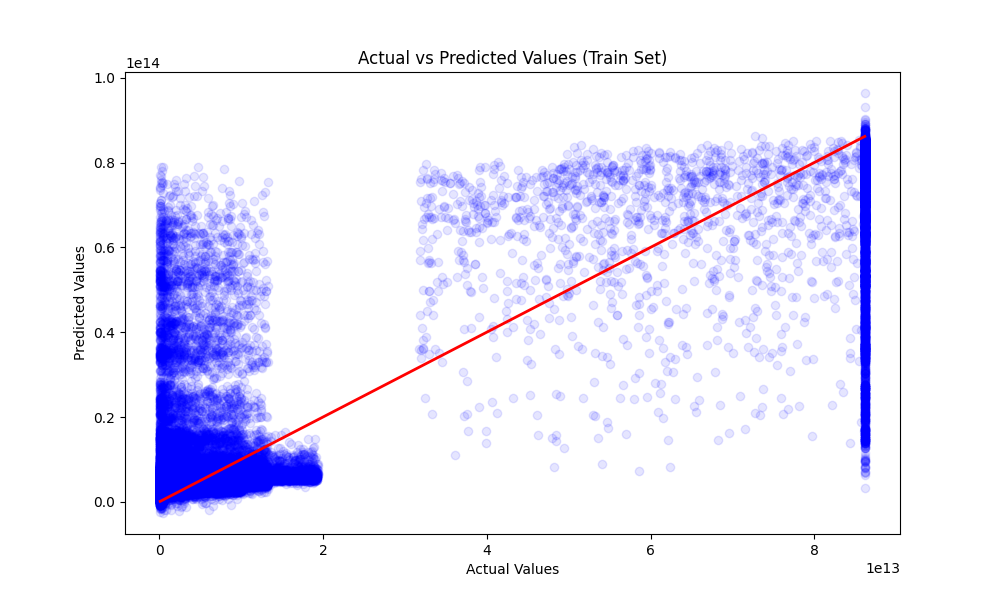
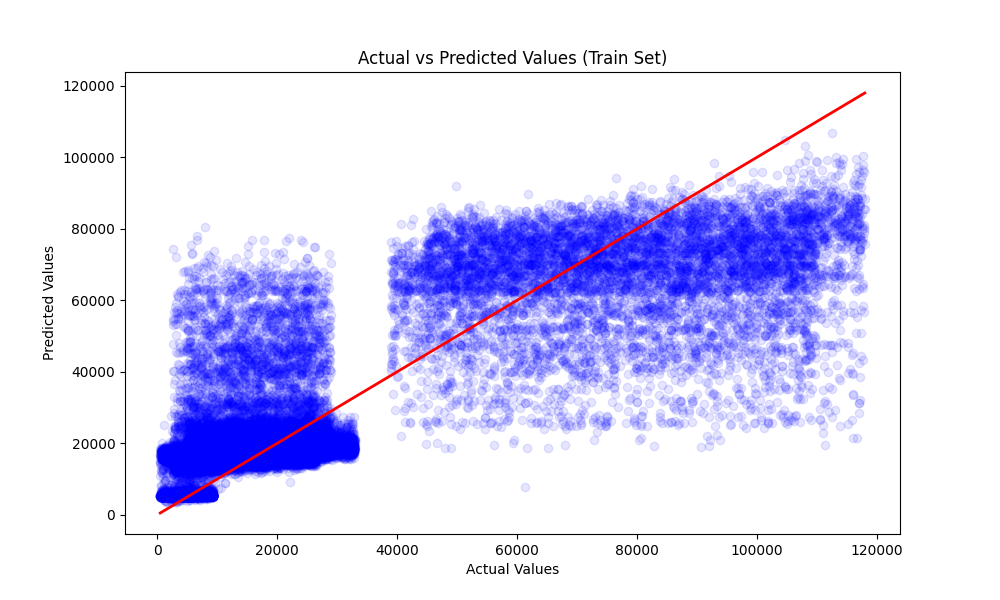
good xgboost results

diff --git a/src/models/model_evaluation.py b/src/models/model_evaluation.py
@@ -53,12 +53,10 @@ def plot(Y:np.ndarray,data_prediction:pd.Series,set:str,color:str)->str:
         plt.savefig(plot_path)
         plt.show()
         plt.close()
-
         return plot_path
     except Exception as e :
         raise Exception(f"Error occured during plotting predicated vs actual values : {e}")
 
-        
 
 # Model Evaluation function
 def evaluation_model(model,X_test: pd.DataFrame,Y_test :pd.Series,X_train: pd.DataFrame,Y_train :pd.Series )->dict:
@@ -68,21 +66,17 @@ def evaluation_model(model,X_test: pd.DataFrame,Y_test :pd.Series,X_train: pd.Da
         test_size = params["data_collection"]["test_size"]
         kwargs= params["model_building"]["kwargs"]
         model_name = params["model_building"]["model_name"]
-        # Predicting test & train sets
-        
 
+        # Predicting test & train sets
         test_data_prediction = model.predict(X_test)
         train_data_prediction = model.predict(X_train)
-
 
         # Defining r square measure
         r2_test = r2_score(Y_test, test_data_prediction)
         r2_train = r2_score(Y_train,train_data_prediction)
         mae = mean_absolute_error(test_data_prediction,Y_test)
        
-        
         # Plotting test & train datasets vs actual values diagrams
-
         test_plot = plot(Y_test,test_data_prediction,"Test","green")
         train_plot = plot(Y_train,train_data_prediction,"Train","blue")
 
@@ -105,7 +99,6 @@ def evaluation_model(model,X_test: pd.DataFrame,Y_test :pd.Series,X_train: pd.Da
                  "mae":mae
             }
         print(f"Model Evaluation Results: {metrics_dict}")
-
         return metrics_dict
     except Exception as e:
         raise Exception(f"Error occured during model evaluation : {e}")
@@ -138,10 +131,8 @@ def main():
 
         # Defining X-train & Y-train
         X_train , Y_train = prepare_data(train_data)
-        features_to_scale  = ["Age","Severity","Marital Status"]
-        scaler = StandardScaler()
-        X_train[features_to_scale] = scaler.fit_transform(X_train[features_to_scale])  # Fit and transform training data
-        X_test[features_to_scale] = scaler.transform(X_test[features_to_scale])       # Only transform test data
+
+
         # Loading Model
         model = load_model(model_path)
        
@@ -154,8 +145,6 @@ def main():
         print(X_train.head())
     except Exception as e:
         raise Exception(f"Error Occured  : {e}")
-
-
 
 if __name__ == "__main__":
     main()

diff --git a/src/models/model_building.py b/src/models/model_building.py
@@ -76,13 +76,7 @@ def save_model(model, filepath:str) -> None:
     except Exception as e:
         raise Exception(f"Error occured during saving the model to path : {filepath}  : {e}")
 
-def scalerFun(df: pd.DataFrame, features: list) -> pd.DataFrame:
-    try:
-        scaler = StandardScaler()
-        df = scaler.fit_transform(df)
-        return df
-    except Exception as e:
-        raise Exception(f"Error in scaling features: {features} : {e}")
+
 def main():
     try:
         # Defining paths & model name
@@ -92,8 +86,6 @@ def main():
         model_save_path = "models/model.joblib"
 
         # Loading hyperparameters    
-    
-        
         params = load_params(params_path)
         model_name = params["model_building"]["model_name"]
         model_kwargs = params["model_building"]["kwargs"]
@@ -105,19 +97,18 @@ def main():
         # Preparing x_train , y_train data for fitting
         x_train , y_train = prepare_data(train_dataset)
         x_test,y_test = prepare_data(test_dataset)
-        # Training the model & fitting the data
-        features_to_scale  = ["Age","Severity","Marital Status"]
-        scaler = StandardScaler()
-        x_train[features_to_scale] = scaler.fit_transform(x_train[features_to_scale])  # Fit and transform training data
-        x_test[features_to_scale] = scaler.transform(x_test[features_to_scale])       # Only transform test data
 
+    
 
+    
+
+      # Debugging
         print(f"Train features shape: {x_train.shape}")
         print(f"Train target shape: {y_train.shape}")
         print(f"Test features shape: {x_test.shape}")
         print(f"Test target shape: {y_test.shape}")
 
-    
+        # Training the model & fitting the data
         model = train_model(x_train=x_train,y_train=y_train,kwargs=model_kwargs,model_name=model_name)
 
         # Saving the model
@@ -127,7 +118,6 @@ def main():
         raise Exception(f"An Error Occured : {e}")
     
   
-    
 
 if __name__ == "__main__":
     main()

diff --git a/src/data/data_preprocessing.py b/src/data/data_preprocessing.py
@@ -112,9 +112,10 @@ def transform(df : pd.DataFrame,col:str,transformation_type,apply_boxcox:bool) -
      
     transformation_types = {
             "square":lambda x: np.square(x),
-            "custom":lambda x :x**2.5,
-            "sqrt":lambda x : x,
+            "custom":lambda x :x**0.85,
+            "sqrt":lambda x :np.sqrt(x) ,
             "log2":lambda x :np.log2(x),
+            "false":lambda x: x
             
      }
 
@@ -192,15 +193,8 @@ def main():
         # Loading Datasets
         train_data = load_data(os.path.join(raw_data_path,"train.csv"))
         test_data = load_data(os.path.join(raw_data_path,"test.csv"))
-        
 
-  
-
-
-        
         #Applying transformation functions for training & testing sets
-
-            
         train_df = transform(train_data,"Amount",transformation_type,apply_boxcox)
         test_df = transform(test_data,"Amount",transformation_type,apply_boxcox)
 
